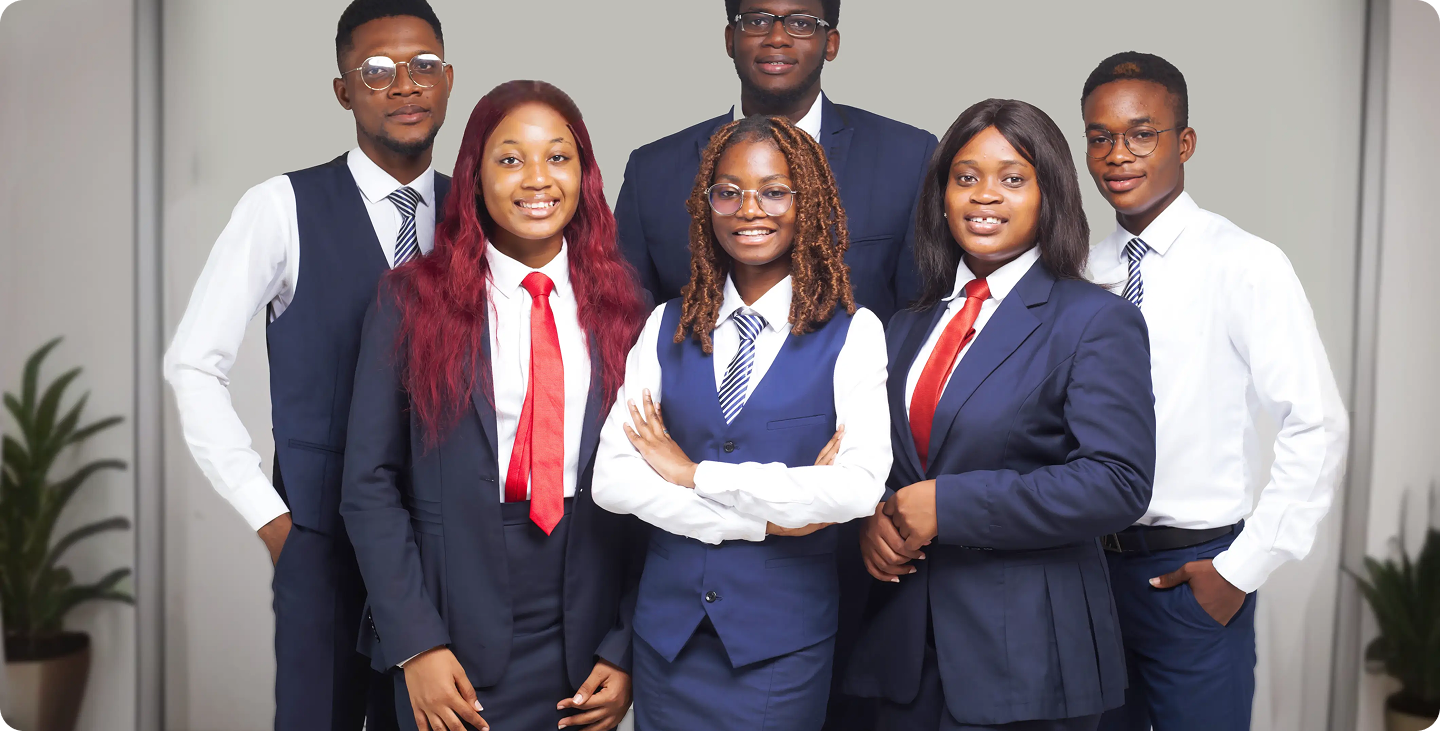
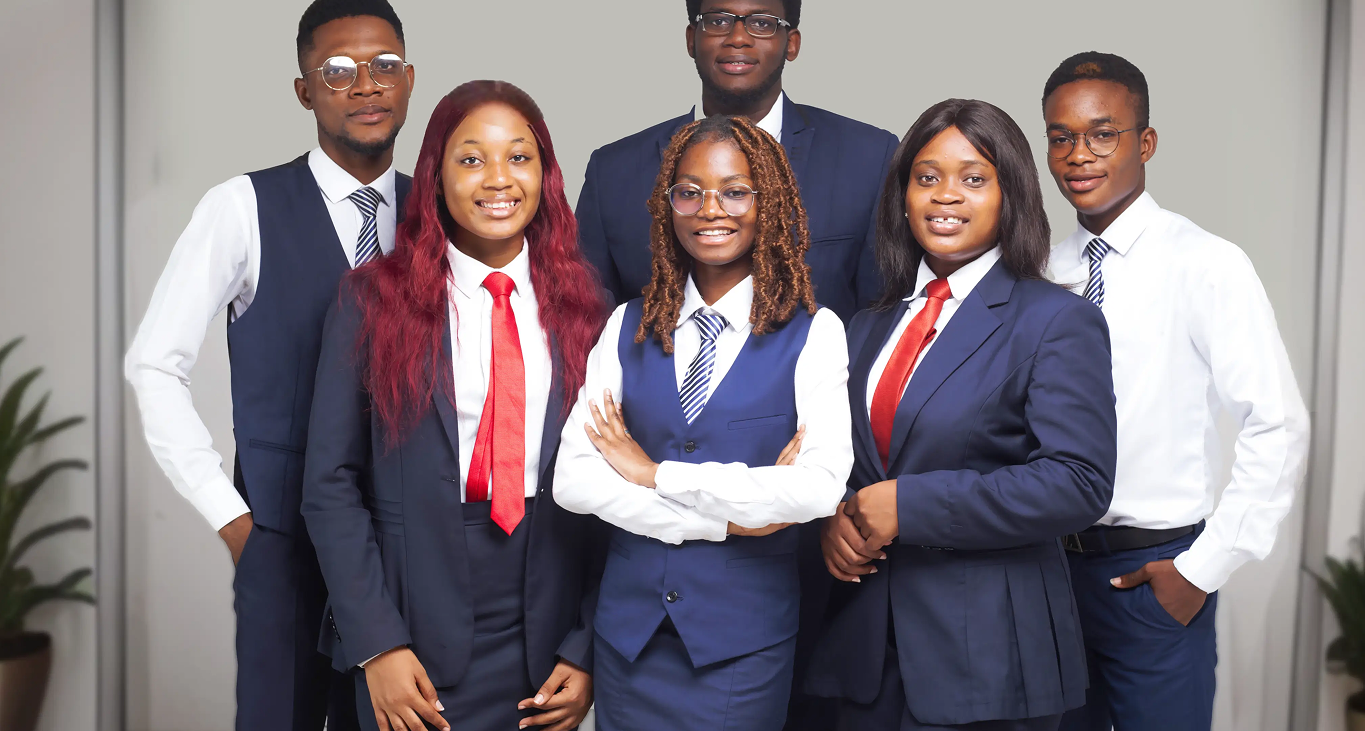
fix(accueil): fixed the welcome section image appearance

diff --git a/src/app/(public)/accueil/components/WelcomeSection.tsx b/src/app/(public)/accueil/components/WelcomeSection.tsx
@@ -6,26 +6,29 @@ import { FiArrowRight } from "react-icons/fi";
 const WelcomeSection = () => {
   return (
     <div className="mb-16 w-full text-center">
-      <h1 className="text-text-title text- mb-8 font-medium">
+      <h1 className="text-text-title text- mb-6 font-medium">
         Bienvenue sur Alexandria
       </h1>
-      <h2 className="text-text-secondary mb-6 text-3xl leading-9 font-semibold">
-        Tes révisions commencent ici...
+      <h2 className="text-text-secondary mb-6 text-3xl leading-10 font-semibold md:text-5xl md:leading-14 lg:text-7xl lg:leading-18">
+        Tes révisions <br className="hidden md:block" />
+        commencent ici...
       </h2>
       <p className="text-text-default mb-7">
         Boostez vos révisions grâce à nos annales et prenez en main votre avenir
-        académique en réussissant tous vos examens.
+        académique en <br className="hidden md:block" />
+        réussissant tous vos examens.
       </p>
 
       <button className="bg-background-accent text-text-primary mx-auto mb-10 flex items-center gap-2 rounded-lg border border-black px-4 py-2">
         Voir le Catalogue <FiArrowRight />
       </button>
 
-      <div className="relative h-50 w-full md:h-180 lg:h-200">
+      <div className="relative mx-auto h-50 w-full overflow-x-hidden md:h-180 lg:h-200">
         <Image
-          src="/images/accueil_image.png"
+          src="/images/accueil_image2.png"
           alt="Esgis Image Accueil"
           fill
+          className="object-cover object-center object-top"
           sizes="(max-width: 1200px) 100%"
           loading="eager"
         />

diff --git a/src/app/(public)/accueil/components/DomainFilter.tsx b/src/app/(public)/accueil/components/DomainFilter.tsx
@@ -13,7 +13,7 @@ const activityDomain = [
 const DomainFilter = () => {
   const [currentDomain, setCurrentDomain] = useState("Toutes");
   return (
-    <div className="w-full px-4">
+    <div className="mb-16 w-full px-6">
       <h3 className="text-text-secondary mb-8 text-center text-3xl font-semibold">
         Filtrez par domaine d&apos;activité
       </h3>
@@ -32,7 +32,7 @@ const DomainFilter = () => {
         })}
       </div>
 
-      <div className="grid grid-cols-1 gap-6 md:grid-cols-3">
+      <div className="mb-4 grid grid-cols-1 gap-8 md:grid-cols-3">
         {epreuvesMock.map((epreuve) => (
           <div key={epreuve.name} className="">
             <EpreuveCard {...epreuve} />

diff --git a/src/app/(public)/page.tsx b/src/app/(public)/page.tsx
@@ -1,4 +1,5 @@
 import DomainFilter from "./accueil/components/DomainFilter";
+import Filieres from "./accueil/components/Filieres";
 import RecentlyAdded from "./accueil/components/RecentlyAdded";
 import Research from "./accueil/components/Research";
 import WelcomeSection from "./accueil/components/WelcomeSection";
@@ -11,6 +12,7 @@ export default function Accueil() {
       <Research />
       <RecentlyAdded />
       <DomainFilter />
+      <Filieres />
     </PublicLayout>
   );
 }

diff --git a/src/app/(public)/accueil/components/RecentlyAdded.tsx b/src/app/(public)/accueil/components/RecentlyAdded.tsx
@@ -6,7 +6,7 @@ import { epreuvesMock } from "../../constants/epreuve_constants";
 
 const RecentlyAdded = () => {
   return (
-    <div className="mb-12 px-10">
+    <div className="mb-16 px-6">
       <h3 className="text-text-secondary mb-1 text-3xl font-semibold">
         Récemment ajoutées...
       </h3>

diff --git a/src/app/(public)/accueil/components/Filieres.tsx b/src/app/(public)/accueil/components/Filieres.tsx
@@ -1,0 +1,5 @@
+const Filieres = () => {
+  return <div></div>;
+};
+
+export default Filieres;
